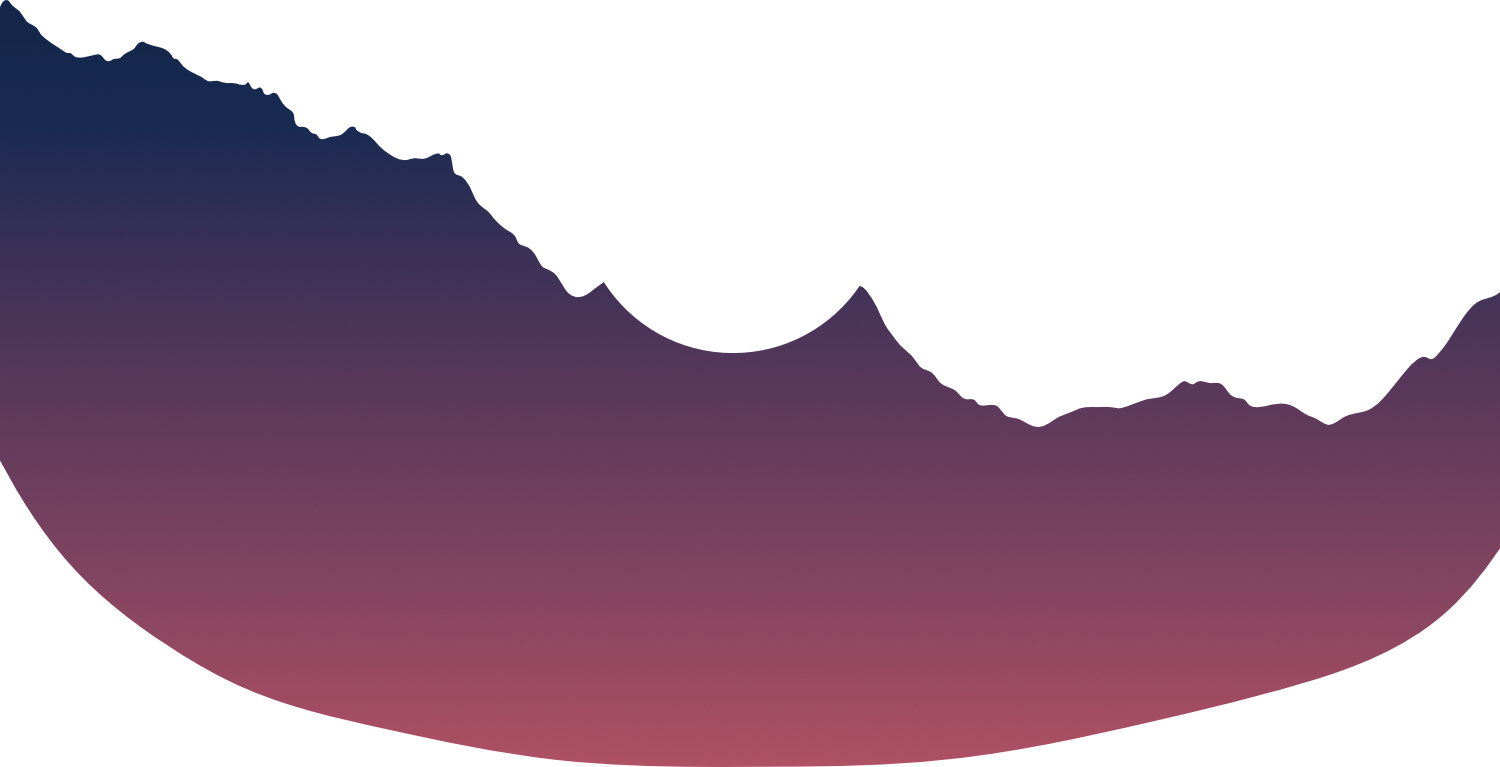
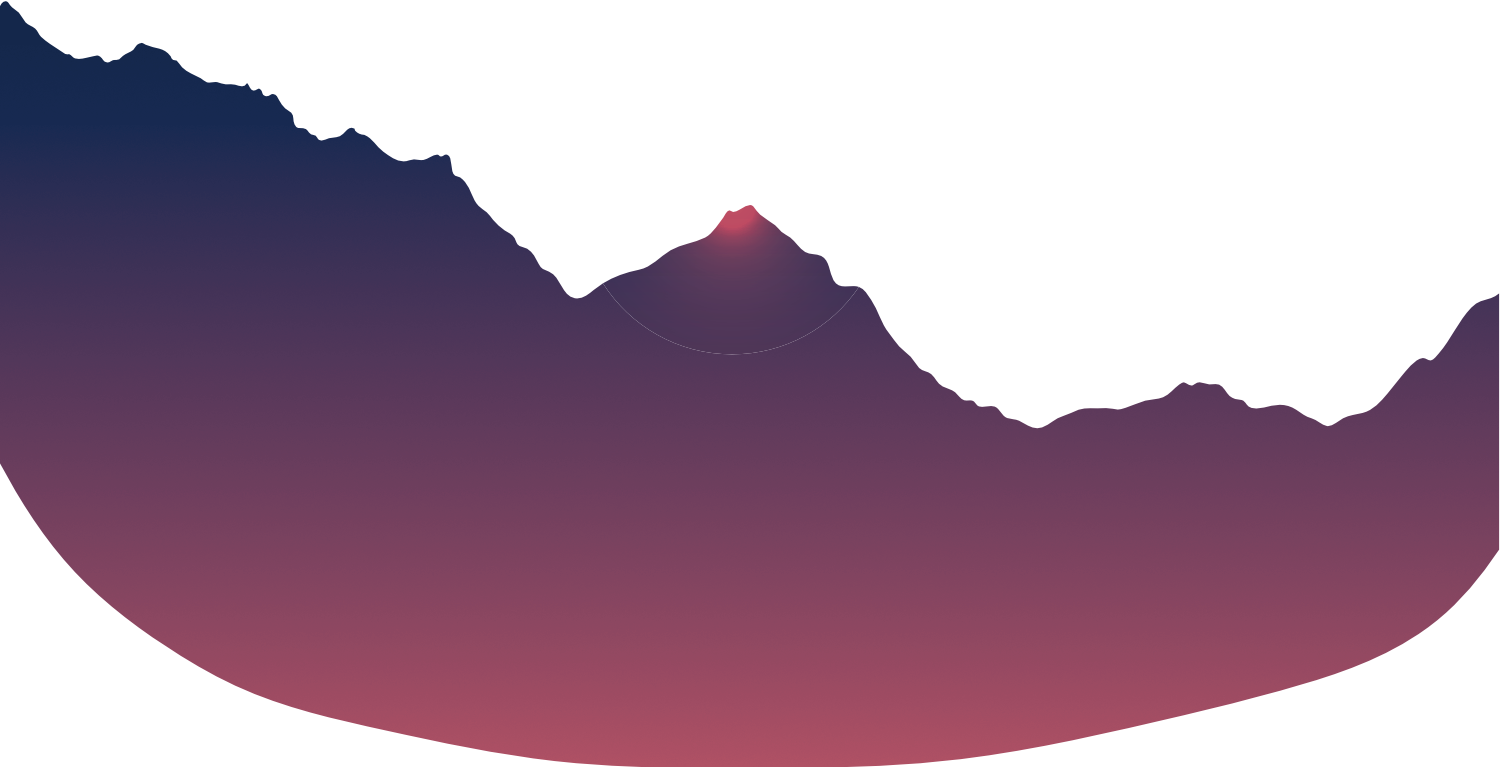
Arrange mountains:

diff --git a/src/Components/App/App.css b/src/Components/App/App.css
@@ -1,21 +1,66 @@
 .App {
   text-align: center;
+  position: relative;
   height: 100vh;
+  width: 100%;
   background-color: #613e5e;
+  overflow-x: hidden;
 }
 
 .moon-container {
-  width: 13vw;
-  height: 13vw;
+  position: absolute;
+  top: 0;
+  left: 40vw;
+  width: 10vw;
+  height: 10vw;
   border-radius: 50%;
   display: flex;
   justify-content: center;
   align-items: center;
-  z-index: -100;
+  z-index: 1;
   background: radial-gradient(closest-side, white, #613e5e 80%);
 }
 
 .moon {
-  height: 90%;
-  width: 90%;
+  max-height: 100%;
+  max-width: 100%;
+}
+
+.App img {
+  position: absolute;
+}
+
+.mountain1 {
+  top: 50vh;
+  width: 110vw;
+  left: -5vw;
+  z-index: 6;
+}
+
+.mountain2 {
+  top: 30vh;
+  left: -10vw;
+  width: 107vw;
+  z-index: 5;
+}
+
+.mountain3 {
+  top: 20vh;
+  left: -5vw;
+  width: 107vw;
+  z-index: 4;
+}
+
+.mountain4 {
+  top: 5vh;
+  left: 0;
+  width: 100vw;
+  z-index: 3;
+}
+
+.mountain5 {
+  top: 10vh;
+  right: 0;
+  width: 60vw;
+  z-index: 2;
 }

diff --git a/src/Components/App/App.js b/src/Components/App/App.js
@@ -19,8 +19,8 @@ function App() {
         <img className='mountain3' src={mountain3} />
         <img className='mountain4' src={mountain4} />
         <img className='mountain5' src={mountain5} />
-        <img className='left-trees' src={leftTrees} />
-        <img className='right-trees' src={rightTrees} />
+        {/* <img className='left-trees' src={leftTrees} />
+        <img className='right-trees' src={rightTrees} /> */}
     </div>
   );
 }
